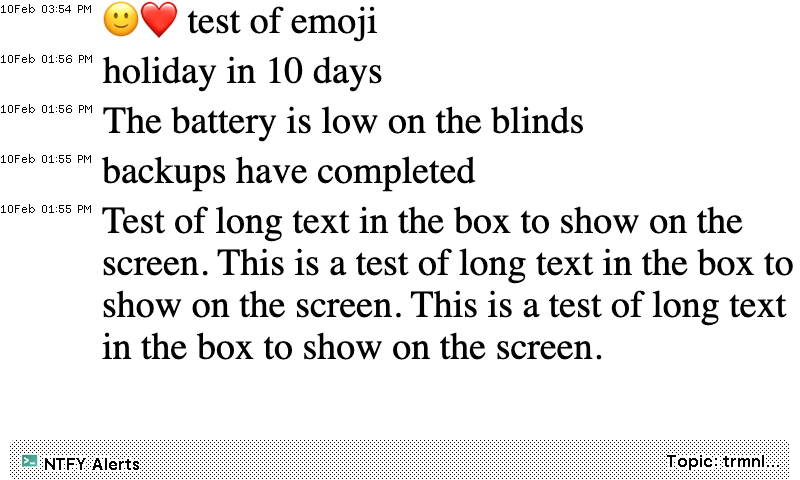
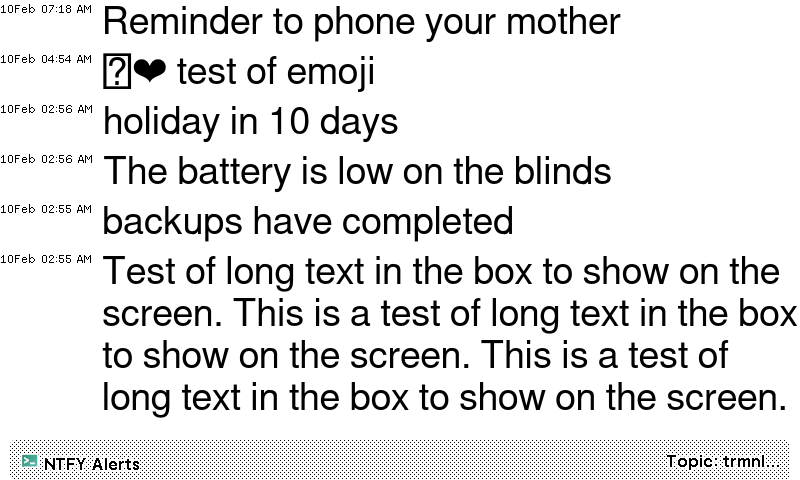
attempt to fix BMP generation to be smaller which should serve to TRMNL (changed switches to convert imagemagick command)

diff --git a/config.js b/config.js
@@ -76,7 +76,8 @@ const config = {
     },
 
     // Image generation options
-    IMAGE_MAGICK_SWICTHES: '-dither FloydSteinberg -remap pattern:gray50 -depth 1 -strip',
+    //IMAGE_MAGICK_SWICTHES: '-dither FloydSteinberg -remap pattern:gray50 -depth 1 -strip',
+    IMAGE_MAGICK_SWICTHES: '-dither FloydSteinberg -remap pattern:gray50 -threshold 50% -depth 1 -type bilevel -strip -compress RLE -define bmp:format=bmp3',
 
     get PLUGINS() {
         return getAvailablePlugins();
